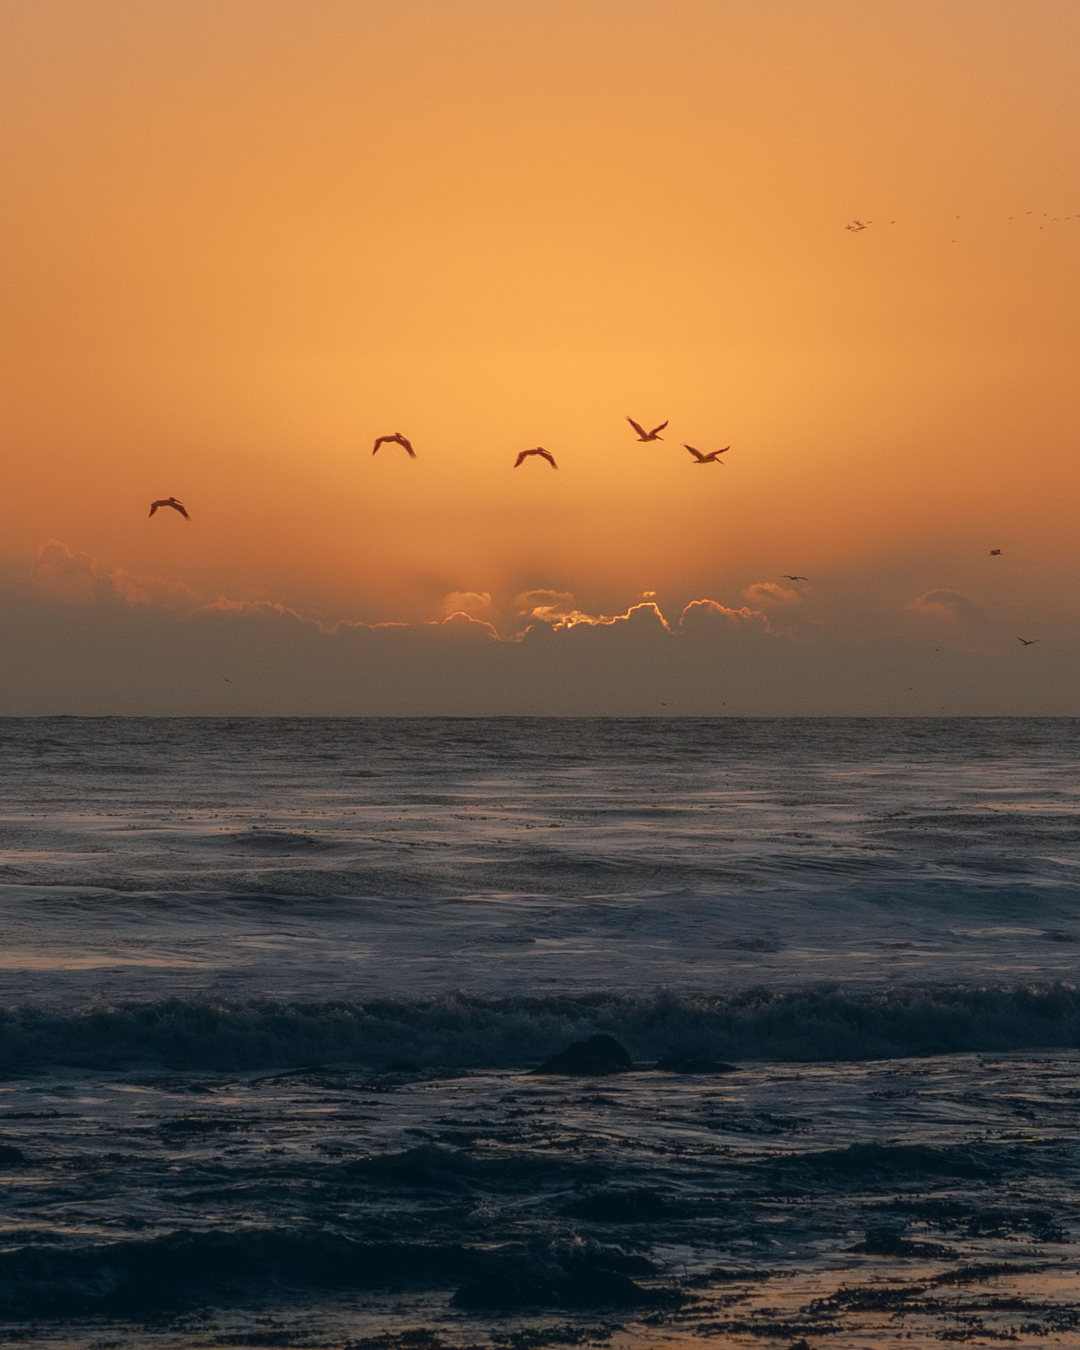
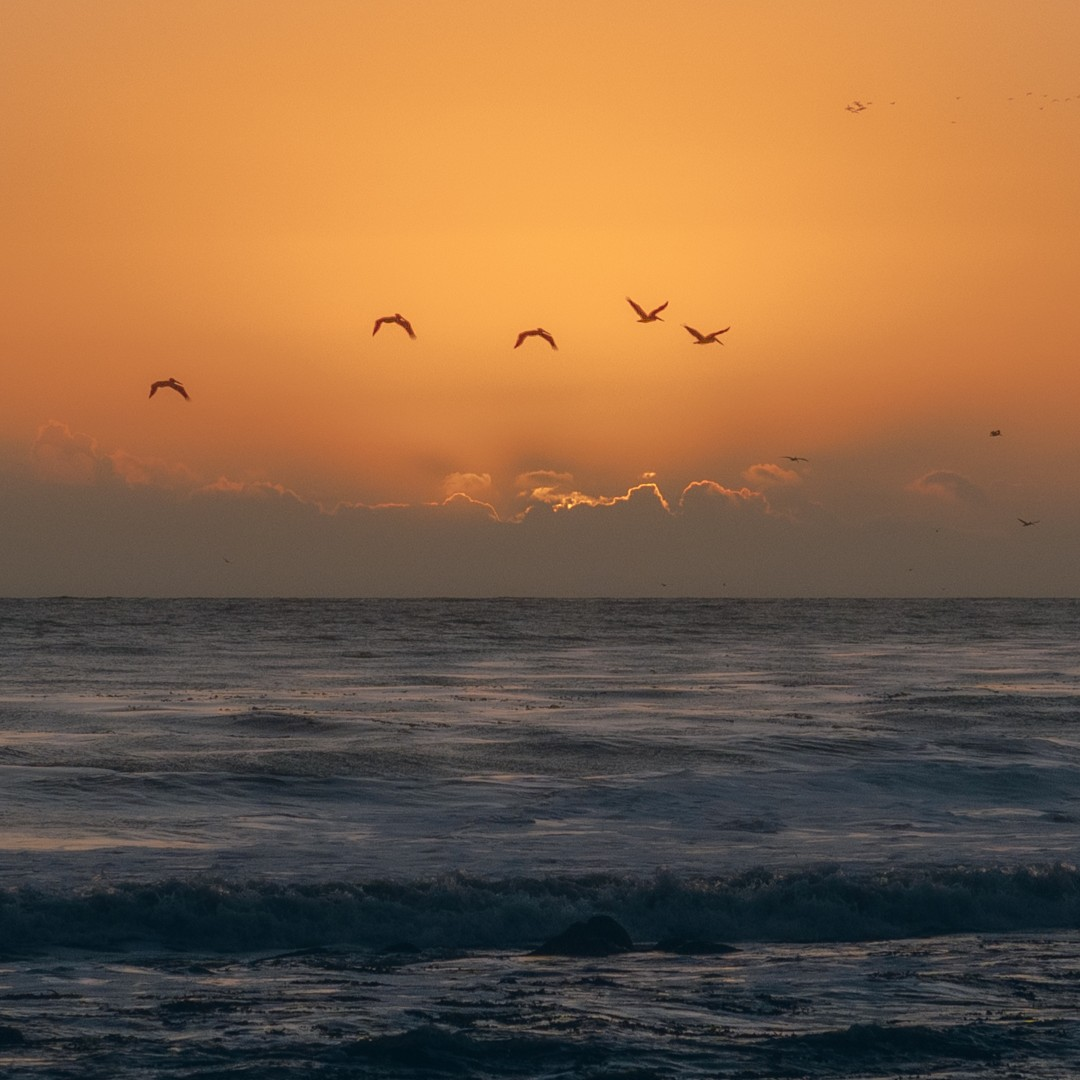
updated images on front page

diff --git a/index.html b/index.html
@@ -155,7 +155,7 @@
 
             <div class="project-card">
               <a href="./project-pages/capstone.html">
-                <img src="./assets/images/capstone/chesscom board.jpg" class="project-image">
+                <img src="./assets/images/capstone/hero.jpg" class="project-image">
               </a>
               <div class="project-card-text-container">
                 <div class="subheader-text project-title">Senior Capstone Project</div>
